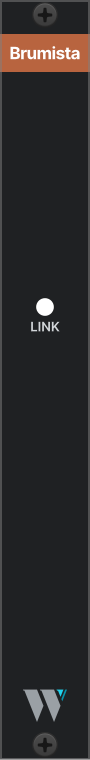
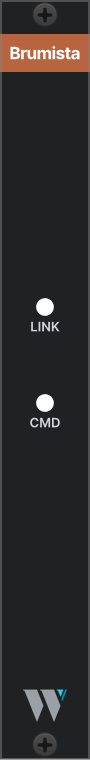
docs(modules): document Brumista's CMD light and LINK blink
The panel image is a fresh Rack -t 2 render.

Changed region(s): [[0.3333, 0.5145, 0.6667, 0.575]]

diff --git a/docs/modules/brumista.md b/docs/modules/brumista.md
@@ -18,11 +18,11 @@ Brumista is a bridge. It runs a small server inside Rack that lets an MCP client
 
 The tools appear as `mcp__brumista__<command>`, one per command below. `-host` and `-port` point the binary at another address; `-version` prints its version.
 
-One Brumista per patch is enough. A second one finds the port taken, stays dark and retries every second, so it takes over if the first is removed.
+One Brumista per patch is enough. A second one finds the port taken, blinks its LINK light slowly and retries every second, so it takes over if the first is removed.
 
 ## Port
 
-Right-click the module to see its state (listening, client connected, or port in use) and a **Port** field holding the port it listens on, 7200 unless changed. Type another port (1024 to 65535) and press Enter: Brumista drops its listener and any client, and listens on the new port at once. An invalid entry leaves the field open and the port unchanged. If the new port is taken, the LINK light goes off and Brumista retries every second, as it does at start.
+Right-click the module to see its state (listening, client connected, or port in use) and a **Port** field holding the port it listens on, 7200 unless changed. Type another port (1024 to 65535) and press Enter: Brumista drops its listener and any client, and listens on the new port at once. An invalid entry leaves the field open and the port unchanged. If the new port is taken, the LINK light blinks slowly and Brumista retries every second, as it does at start.
 
 The port is saved with the patch, and with presets and copies of the module. Point the MCP binary at it with `-port`:
 
@@ -36,10 +36,11 @@ claude mcp add brumista -- /path/to/brumista-mcp -port 7201
 
 | Control | What it shows |
 | --- | --- |
-| LINK light | Off: the port is taken (by another Brumista or another program) and Brumista retries every second. Dim: listening, no client. Full: a client is connected. |
+| LINK light | Off: the server is stopped. Slow blink: the port is taken (by another Brumista or another program) and Brumista retries every second. Dim: listening, no client. Full: a client is connected. |
+| CMD light | A short flash for each command: dim for one that only reads or saves, full for one that changes the patch (the Editing commands and `batch`). |
 | Right-click menu | The server's state, and the port field ([Port](#port)). |
 
-The MCP binary opens one connection per tool call, so the light flashes to full during a call and drops back to dim.
+The MCP binary opens one connection per tool call, so LINK flashes to full during a call and drops back to dim, and CMD flashes once as the command runs.
 
 ## Commands
 

diff --git a/docs/architecture.md b/docs/architecture.md
@@ -47,7 +47,7 @@ w72-rack-plugin/
 
 The sync procedure keeps the two artifacts from drifting:
 
-1. **One source of truth.** `protocol/commands.json` lists every command. The Go server generates its MCP tool list from it. The C++ dispatch table is handwritten and checked against it by `tools/check-commands.sh` in CI: the same commands, in the same order, on the same thread. `hello` builds its command list from that table, so a live `hello` agrees with the file too. Generating the C++ is a fallback if drift becomes a problem. Adding a command is one edit, and a mismatch fails the test.
+1. **One source of truth.** `protocol/commands.json` lists every command. The Go server generates its MCP tool list from it. The C++ dispatch table is handwritten and checked against it by `tools/check-commands.sh` in CI: the same commands, in the same order, on the same thread, and marked as reads or patch edits alike (the edit mark drives Brumista's CMD light). `hello` builds its command list from that table, so a live `hello` agrees with the file too. Generating the C++ is a fallback if drift becomes a problem. Adding a command is one edit, and a mismatch fails the test.
 2. **One version, semver.** `plugin.json`'s version, the binary's version and the protocol version move together under Semantic Versioning. Rack pins the major version to its own (2.x for Rack 2), so new commands or modules are minor bumps and fixes are patches. A release tags all three.
 3. **A version handshake.** The module's `hello` reports its protocol version. The binary refuses a version it doesn't know, or warns, so an old pair says so instead of half working.
 4. **Separate distribution.** The plugin goes through the VCV Library; the binary ships as prebuilt files on GitHub Releases, built by GitHub Actions. This is how forsitan modulare does it ([limen-tools](https://github.com/gosub/limen-tools/releases)). The Library has no written rule on executables inside a plugin, but it builds plugins from source with a C++ toolchain, and macOS would likely block an unsigned executable.
